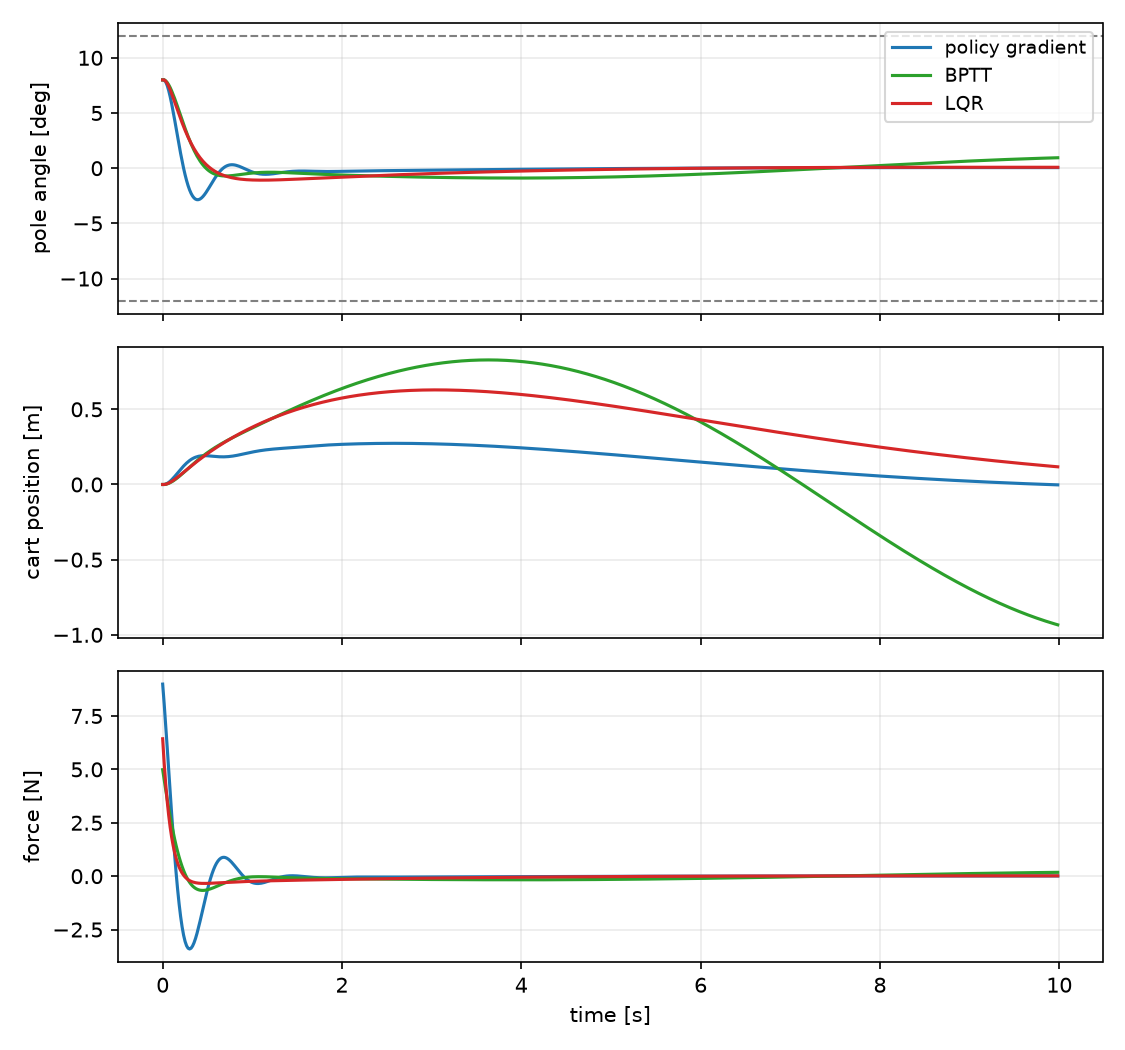
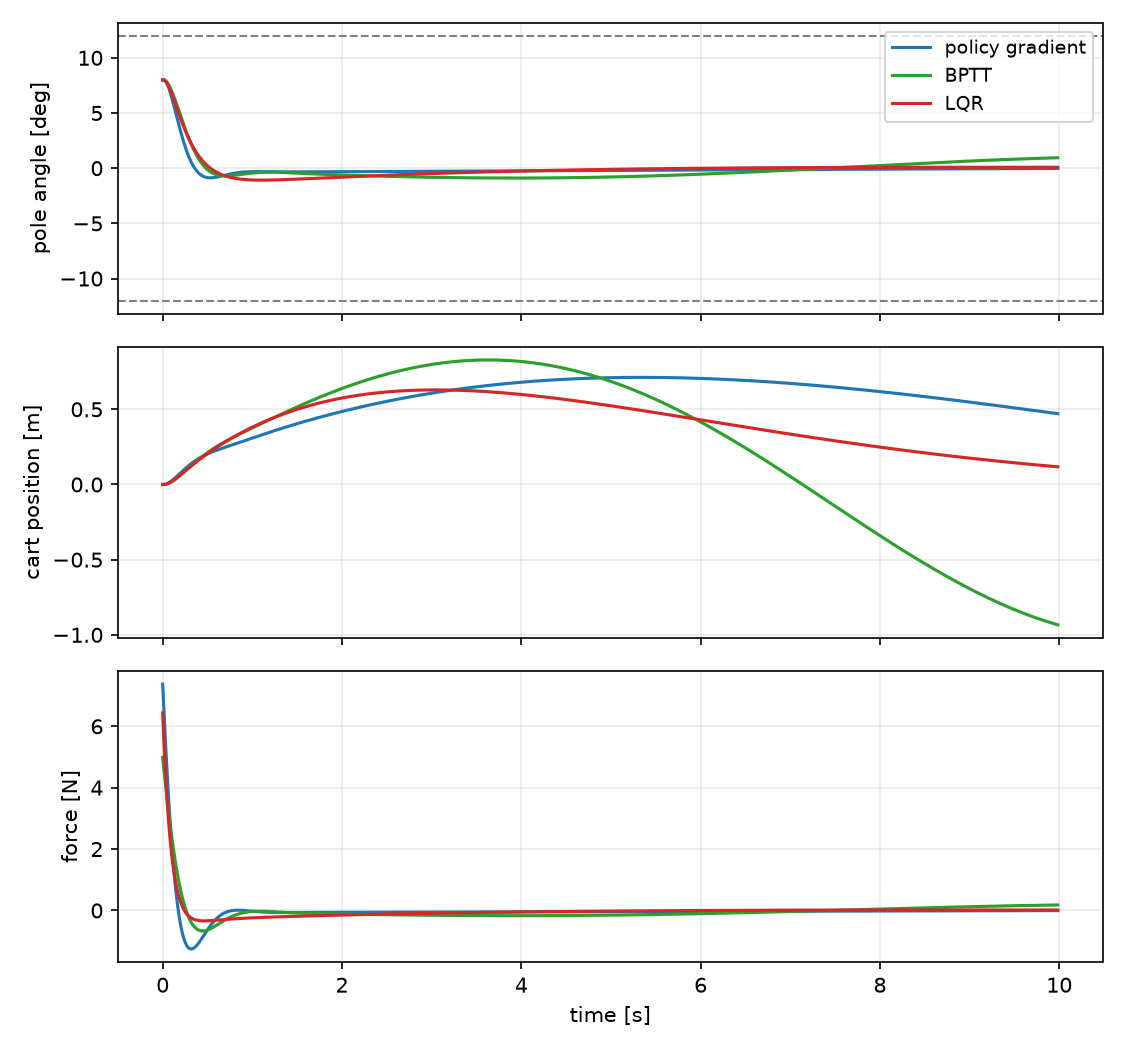
図5(b)でエピソード終端後の軌道を描いていた不具合を修正
LQRはカートがレール端に達して191ステップ(3.2秒)で終端しているが,
500ステップ全部を描いていたため終了後のシミュレーションが残り,
収益38.0という数値に反して最も安定しているように見えていた.
終端で打ち切り, 終端位置に×印を付けるようにした.

あわせて表2をこの実行の値へ更新した.

diff --git a/main.py b/main.py
@@ -263,15 +263,20 @@ def plot_swingup(pg, analytic, policies, lqr_return):
     # 評価と同じ初期状態分布からサンプルした1点を用いる (分布の平均は角速度0の特異点のため)
     x0 = env.sample_states(SWINGUP_PARAMS, jax.random.PRNGKey(5), 1)[0]
     for name, policy, spec, color in policies:  # 角度は [-180, 180] 度へ折り返して描く
-        states, _, _ = agent.rollout_policy(SWINGUP_PARAMS, spec, jnp.asarray(policy), x0, SWINGUP_STEPS)
-        raw = np.array(states)[:, 2]
-        turns = np.abs(np.unwrap(raw)[-1] - np.unwrap(raw)[150]) / (2.0 * np.pi)
-        print(f"[swingup/trajectory] {name}: rotations over the plotted trajectory {turns:.2f}")
-        angle = np.rad2deg(raw)
-        angle = (angle + 180.0) % 360.0 - 180.0
+        states, _, dones = agent.rollout_policy(SWINGUP_PARAMS, spec, jnp.asarray(policy), x0, SWINGUP_STEPS)
+        states, dones = np.array(states), np.array(dones)
+        end = int(np.argmax(dones)) + 1 if dones.any() else SWINGUP_STEPS   # 終端後は描かない
+        raw = states[:end, 2]
+        turns = np.abs(np.unwrap(raw)[-1] - np.unwrap(raw)[min(150, end - 1)]) / (2.0 * np.pi)
+        print(f"[swingup/trajectory] {name}: {end} steps ({'terminated' if end < SWINGUP_STEPS else 'no termination'}), "
+              f"rotations {turns:.2f}")
+        angle = (np.rad2deg(raw) + 180.0) % 360.0 - 180.0
         jump = np.abs(np.diff(angle)) > 180.0          # 折り返しで縦線が入るのを防ぐ
         angle = np.where(np.append(jump, False), np.nan, angle)
-        axes[1].plot(np.arange(SWINGUP_STEPS) * SWINGUP_PARAMS.dt, angle, color=color, lw=1.2, label=name)
+        t = np.arange(end) * SWINGUP_PARAMS.dt
+        axes[1].plot(t, angle, color=color, lw=1.2, label=name)
+        if end < SWINGUP_STEPS:                        # 終端した位置を明示する
+            axes[1].plot(t[-1], angle[-1], "x", color=color, ms=8, mew=2)
     for level, style in ((0.0, "--"), (180.0, "-"), (-180.0, "-")):
         axes[1].axhline(level, color="gray", lw=0.8, ls=style)
     axes[1].set_ylim(-190, 190)

diff --git a/report.md b/report.md
@@ -309,28 +309,28 @@ $$\phi(s) = \left[ \tanh\frac{x}{2.4},\ \frac{\dot{x}}{2},\ \sin y,\ \cos y,\ \f
 
 ![図5: swing-up課題](fig/swingup.png)
 
-**図5** swing-up課題. (a) 学習曲線 (実線は16試行の中央値, 帯は四分位範囲, 赤破線はLQR). LQRは大きな負の値をとるため, 縦軸は $|{\cdot}| < 100$ を線形とする対数軸で描いている. (b) 真下からの角度の軌道. 角度は折り返さずに追っており, 0°と360°がともに倒立, 180°が真下に対応する.
+**図5** swing-up課題. (a) 学習曲線 (実線は16試行の中央値, 帯は四分位範囲, 赤破線はLQR). 縦軸は $|{\cdot}| < 100$ を線形とする対数軸である. (b) 真下からの代表的な軌道 (評価値が中央値に最も近い試行). 角度は $[-180°, 180°]$ へ折り返してあり, 回転する方策は鋸歯状の波形になる. ×印はエピソードが終端した位置を表す.
 
 | 手法 | 収益 (平均±標準偏差, 上限500) | 終盤の倒立滞在率 | 後半350ステップの回転数 | 消費エピソード |
 |---|---|---|---|---|
 | BPTT (解析的方策勾配) | $348.1 \pm 5.5$ | 0.33 | **0.78 周** | 76.8万 (模擬) |
-| 方策勾配法 | $176.4 \pm 83.0$ | 0.06 | **11.68 周** | 4493万 (実環境) |
+| 方策勾配法 | $218.1 \pm 14.3$ | 0.07 | **11.98 周** | 1649万 (実環境) |
 | 方策勾配法 ($\phi = C\boldsymbol{s}$) | $120.4 \pm 92.9$ | 0.05 | 12.47 周 | — |
 | LQR | 38.0 | 0.03 | 0.65 周 | 0 |
 
-**表2** swing-up課題の結果 (各16試行. 倒立滞在率は最終100ステップで $|y| < 12°$ にある割合. 回転数は角度を折り返さずに数えた周回数で, 静止なら0, 大振幅の往復なら1前後, 回転していれば数周以上になる).
+**表2** swing-up課題の結果 (各16試行. 倒立滞在率は最終100ステップで $|y| < 12°$ にある割合. 回転数は角度を折り返さずに数えた周回数で, 静止なら0, 大振幅の往復なら1前後, 回転していれば数周以上になる. 方策勾配法は16試行中2試行が発散したため, 収益はそれを除いた14試行の統計である).
 
 **BPTT** は振り上げに成功し, 倒立近傍に長く滞在する. 終盤100ステップのうち $|y| < 90°$ にいる割合は0.75で, 上半平面で大半の時間を過ごしている. しかし頂点で静定できず, 後半350ステップで約0.8周ぶんの大振幅な往復を続ける. すなわち「回転している」のではなく「頂点を越えてはゆっくり戻ってくる」状態であり, 終盤の角速度は3.3 rad/s と倒立近傍の不安定極 $\lambda \approx 3.9$ と同オーダーである. 16試行の標準偏差が5.5と小さく, 全試行が同じ挙動に収束する.
 
-**方策勾配法** は質的に異なる失敗をする. 後半350ステップで11.7周し, 終盤の角速度は12〜31 rad/s に達する. $|y| < 90°$ にいる割合が0.50 と一様回転そのものであり, ポールを回し続ける局所解に収束している. 振り上げ動作自体を獲得できていない.
+**方策勾配法** は質的に異なる失敗をする. 後半350ステップで12.0周し, 終盤の角速度は12〜31 rad/s に達する. $|y| < 90°$ にいる割合が0.50 と一様回転そのものであり, ポールを回し続ける局所解に収束している. 振り上げ動作自体を獲得できていない.
 
-**LQR** は直立平衡点まわりの線形化に基づくため, 真下では線形化モデルが現実と大きく乖離しており (重力の作用の向きすら逆になる), 収益38.0にとどまる.
+**LQR** は直立平衡点まわりの線形化に基づくため, 真下では線形化モデルが現実と大きく乖離しており (重力の作用の向きすら逆になる), 飽和した入力でカートが走り去る. 図5(b)の代表軌道では3.2秒でレール端に達してエピソードが終端しており (×印), 収益は38.0にとどまる.
 
 ### 5.4 考察
 
 **方策勾配法が回転の局所解に落ちる理由.** 目的関数の上では倒立の方が明確に有利である. 静止すれば毎ステップ約1.0, 回転させると平均0.5しか得られない. したがってこれは報酬設計の問題ではなく最適化の問題である. 原因は探索にあると考えられる. 振り上げには振り子の共振に合わせてエネルギーを蓄積する協調した力の系列が必要だが, ガウス方策の行動雑音は $\sigma \ge 0.1$ [N] であり $\pm 20$ [N] の行動範囲に対して小さい. 方策勾配法の探索は方策自身の確率性のみに依存するため, 一度回転の解に入るとそこから抜け出す経路を見つけられない. 価値ベースの手法であれば価値関数を楽観的に初期化して未訪問の状態行動対へ系統的に誘導するという定石があるが, 価値関数を持たない方策勾配法にはこれに直接対応する仕掛けがない.
 
-学習量を増やしても解決しない. 8億ステップ (57回の方策改善) で収益125, 32億ステップ (341回) で166, 80億ステップ (792回) で176と, 学習量を10倍にしても1.4倍にしかならず飽和している. 更新回数が不足しているのではなく, 局所解に到達して止まっている.
+学習量を増やしても解決しない. 8億ステップ (57回の方策改善) で収益125, 32億ステップ (341回) で166, 80億ステップで176〜218と, 学習量を10倍にしても1.4〜1.7倍にしかならず飽和している. 更新回数が不足しているのではなく, 局所解に到達して止まっている.
 
 **BPTTが頂点で静定できない理由.** こちらも目的関数上は静止した方が有利である. カートが1.2 m の位置にいる場合の位置費用は0.13/ステップなので, 静止すれば $1.0 - 0.13 = 0.87$/ステップ, 実測は $348/500 = 0.70$/ステップである. 原因を切り分けるため, RBFの解像度 (8×5 → 16×9), ホライズン (400 → 500ステップ), 行動雑音の下限 ($\sigma \ge 0.1$ → $0.001$), 勾配クリッピングの強さ, 更新回数 (3000 → 12000) をそれぞれ変えて測定したが, 倒立滞在率は0.23〜0.35の範囲を出なかった. 一方, 方策を2層のニューラルネットに置き換えた予備実験では倒立滞在率1.00・収益468に達している. したがって律速しているのは**方策の関数形**であると考えられる. 倒立を維持するには倒立近傍で $a \approx 46y + 11\dot{y}$ という急峻なフィードバックを出しつつ, 真下付近ではまったく別の振り上げ動作をする必要がある. 正規化RBFは基底関数の重み付き平均という構造をもつため, 局所的に急峻な応答を作ることが苦手である.
 
